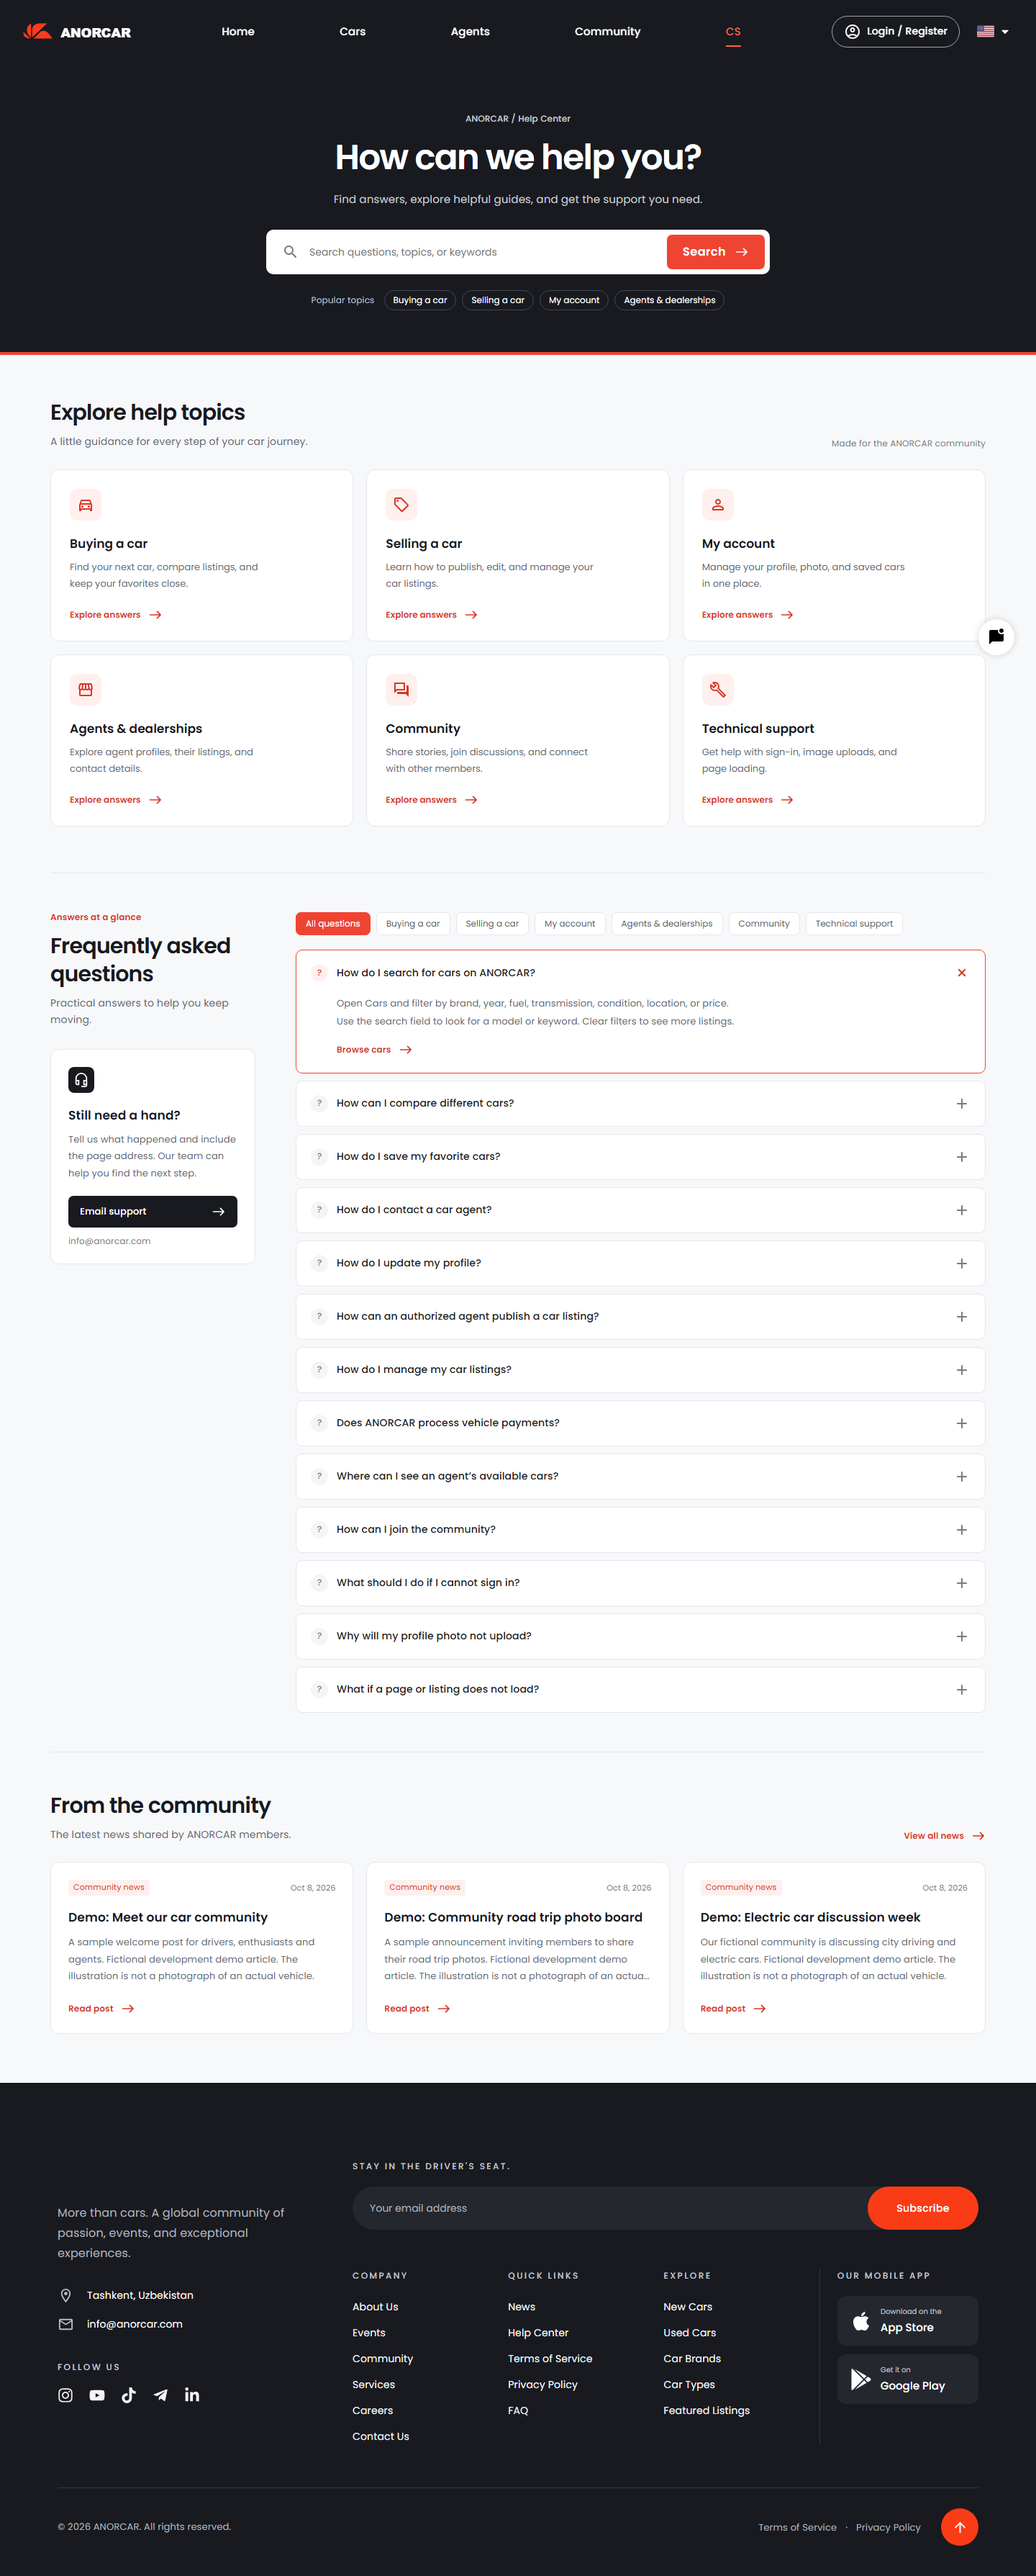
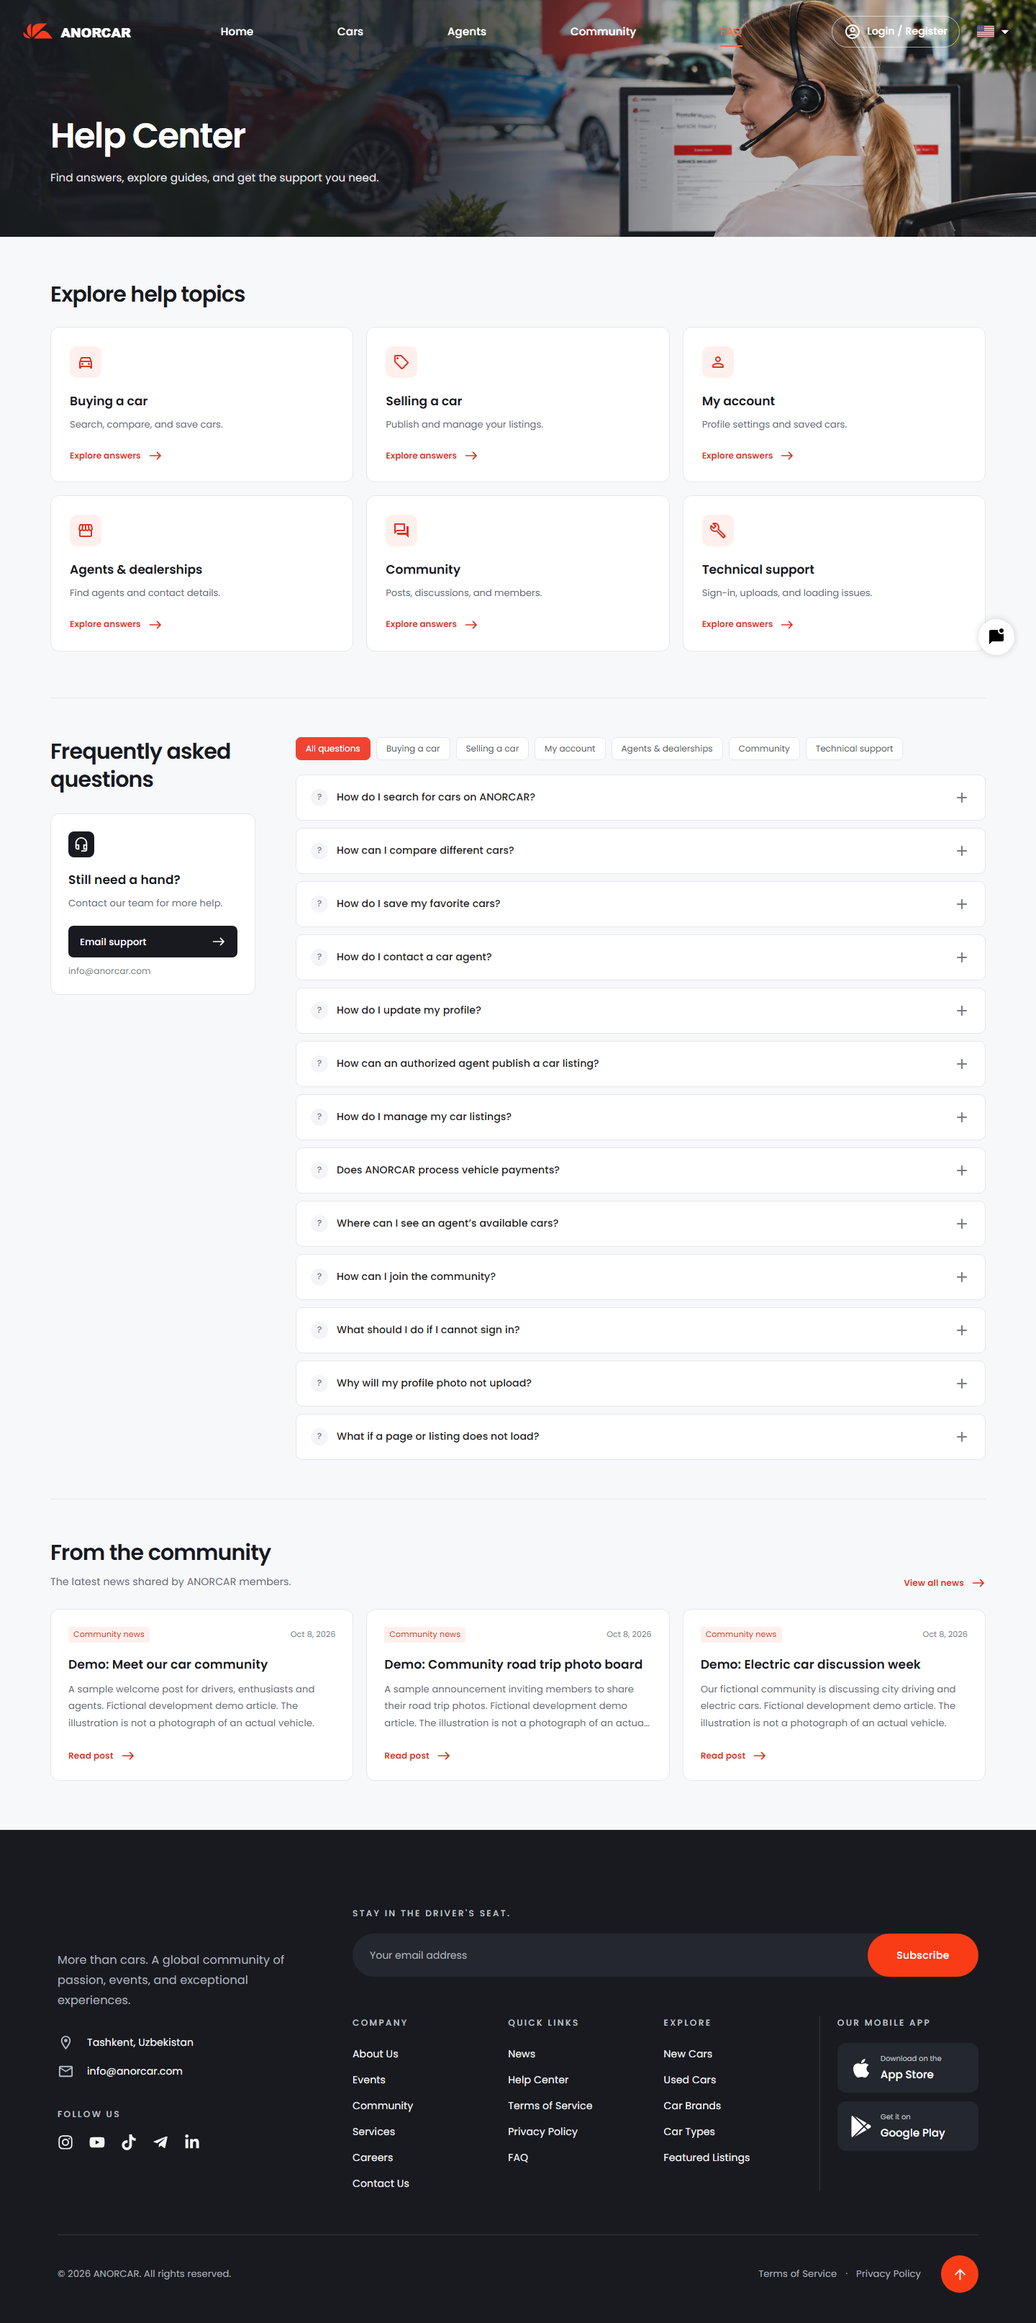
feat: redesign FAQ page navbar and hero section

diff --git a/pages/cs/index.tsx b/pages/cs/index.tsx
@@ -1,11 +1,10 @@
-import React, { FormEvent, useEffect, useRef, useState } from 'react';
+import React, { useEffect, useRef, useState } from 'react';
 import { NextPage } from 'next';
 import Head from 'next/head';
 import { useRouter } from 'next/router';
 import { useTranslation } from 'next-i18next';
 import { serverSideTranslations } from 'next-i18next/serverSideTranslations';
-import { Button, Stack } from '@mui/material';
-import SearchRounded from '@mui/icons-material/SearchRounded';
+import { Stack } from '@mui/material';
 import EastRounded from '@mui/icons-material/EastRounded';
 import DirectionsCarOutlined from '@mui/icons-material/DirectionsCarOutlined';
 import SellOutlined from '@mui/icons-material/SellOutlined';
@@ -32,7 +31,6 @@ const topicIcons = [
 const CS: NextPage = () => {
 	const { t } = useTranslation('common');
 	const router = useRouter();
-	const [draft, setDraft] = useState('');
 	const [search, setSearch] = useState('');
 	const [category, setCategory] = useState<HelpCategory>('all');
 	const restored = useRef(false);
@@ -40,7 +38,6 @@ const CS: NextPage = () => {
 		if (!router.isReady) return;
 		const value = typeof router.query.q === 'string' ? router.query.q.slice(0, 160) : '';
 		const selected = helpTopics.find((topic) => topic.id === router.query.topic)?.id ?? 'all';
-		setDraft(value);
 		setSearch(value);
 		setCategory(selected);
 		if (!restored.current) {
@@ -53,7 +50,6 @@ const CS: NextPage = () => {
 	const chooseHelp = (topic: HelpCategory, value = search) => {
 		setCategory(topic);
 		setSearch(value);
-		setDraft(value);
 		void router.replace(
 			{ pathname: '/cs', query: { tab: 'faq', ...(topic !== 'all' ? { topic } : {}), ...(value ? { q: value } : {}) } },
 			undefined,
@@ -63,53 +59,24 @@ const CS: NextPage = () => {
 			.getElementById('cs-faq')
 			?.scrollIntoView({ behavior: window.matchMedia('(prefers-reduced-motion: reduce)').matches ? 'auto' : 'smooth' });
 	};
-	const searchHandler = (event: FormEvent) => {
-		event.preventDefault();
-		chooseHelp('all', draft.trim());
-	};
 	return (
 		<Stack component="main" className="cs-page" id="cs-help-center">
 			<Head>
 				<title>{`${t('Help Center')} | ANORCAR`}</title>
-				<meta name="description" content={t('Find answers, explore helpful guides, and get the support you need.')} />
+				<meta name="description" content={t('Find answers, explore guides, and get the support you need.')} />
 			</Head>
 			<section className="cs-hero" aria-labelledby="cs-title">
 				<div className="cs-container">
-					<span className="cs-hero-label">ANORCAR / {t('Help Center')}</span>
-					<h1 id="cs-title">{t('How can we help you?')}</h1>
-					<p>{t('Find answers, explore helpful guides, and get the support you need.')}</p>
-					<form className="cs-search" onSubmit={searchHandler} role="search">
-						<SearchRounded aria-hidden="true" />
-						<input
-							value={draft}
-							onChange={(event) => setDraft(event.target.value)}
-							maxLength={160}
-							aria-label={t('Search help topics')}
-							placeholder={t('Search questions, topics, or keywords')}
-						/>
-						<Button type="submit" className="cs-search-button">
-							{t('Search')}
-							<EastRounded fontSize="small" />
-						</Button>
-					</form>
-					<div className="cs-popular">
-						<span>{t('Popular topics')}</span>
-						{helpTopics.slice(0, 4).map((topic) => (
-							<button type="button" key={topic.id} onClick={() => chooseHelp(topic.id, '')}>
-								{t(topic.title)}
-							</button>
-						))}
-					</div>
+					<h1 id="cs-title">{t('Help Center')}</h1>
+					<p>{t('Find answers, explore guides, and get the support you need.')}</p>
 				</div>
 			</section>
 			<div className="cs-container cs-body">
-				<section className="cs-topics" aria-labelledby="cs-topics-heading">
+				<section className="cs-topics" id="cs-topics" aria-labelledby="cs-topics-heading">
 					<div className="cs-section-heading">
 						<div>
 							<h2 id="cs-topics-heading">{t('Explore help topics')}</h2>
-							<p>{t('A little guidance for every step of your car journey.')}</p>
 						</div>
-						<span className="cs-section-note">{t('Made for the ANORCAR community')}</span>
 					</div>
 					<div className="cs-topic-grid">
 						{helpTopics.map((topic, index) => {

diff --git a/scss/pc/cs/cs.scss b/scss/pc/cs/cs.scss
@@ -44,15 +44,24 @@
 	}
 	.cs-hero {
 		position: relative;
-		padding: 156px 0 58px;
+		padding: 160px 0 70px;
 		background: #181a20;
+		background-image: linear-gradient(
+				90deg,
+				rgba(24, 26, 32, 0.94) 0%,
+				rgba(24, 26, 32, 0.82) 42%,
+				rgba(24, 26, 32, 0.26) 70%,
+				rgba(24, 26, 32, 0.16) 100%
+			),
+			url('/img/car/helphero1.png');
+		background-size: cover;
+		background-position: center 36%;
 		color: #fff;
-		text-align: center;
-		border-bottom: 4px solid #f04432;
+		text-align: left;
 	}
 	.cs-hero-label {
 		display: inline-block;
-		color: #c7c9ce;
+		color: #e0e2e6;
 		font-size: 12px;
 		font-weight: 500;
 		margin-bottom: 18px;
@@ -65,68 +74,12 @@
 	}
 	.cs-hero p {
 		margin-top: 16px;
-		color: #c7c9ce;
+		color: #e0e2e6;
 		font-size: 15px;
 		line-height: 1.7;
 	}
-	.cs-search {
-		display: flex;
-		align-items: center;
-		gap: 14px;
-		width: min(700px, 100%);
-		margin: 30px auto 22px;
-		padding: 7px 7px 7px 22px;
-		background: #fff;
-		border-radius: 10px;
-		color: #777c86;
-		text-align: left;
-	}
-	.cs-search input {
-		flex: 1;
-		min-width: 0;
-		border: 0;
-		padding: 12px 0;
-		color: #181a20;
-		background: transparent;
-		font-size: 14px;
-	}
-	.cs-search .cs-search-button {
-		display: flex;
-		gap: 12px;
-		padding: 14px 22px;
-		background: #f04432;
-		color: #fff;
-		border-radius: 7px;
-		text-transform: none;
-		font-weight: 600;
-		flex-shrink: 0;
-	}
-	.cs-search .cs-search-button:hover {
-		background: #d63222;
-	}
-	.cs-popular {
-		display: flex;
-		justify-content: center;
-		align-items: center;
-		flex-wrap: wrap;
-		gap: 8px;
-		font-size: 12px;
-		color: #bbbfc7;
-	}
-	.cs-popular > span {
-		margin-right: 5px;
-	}
-	.cs-popular button {
-		padding: 7px 12px;
-		border: 1px solid #44474e;
-		border-radius: 20px;
-		background: transparent;
-		color: #fff;
-		font-size: 12px;
-	}
-	.cs-popular button:hover {
-		border-color: #ff7668;
-		color: #ff998f;
+	.cs-topics {
+		scroll-margin-top: 160px;
 	}
 	.cs-body {
 		padding-top: 60px;
@@ -477,7 +430,13 @@
 			width: calc(100% - 36px);
 		}
 		.cs-hero {
-			padding: 185px 0 40px;
+			padding: 180px 0 48px;
+			background-position: 65% center;
+			background-image: linear-gradient(90deg, rgba(24, 26, 32, 0.82) 0%, rgba(24, 26, 32, 0.7) 55%, rgba(24, 26, 32, 0.42) 100%), url('/img/car/helphero1.png');
+			text-align: center;
+		}
+		.cs-popular {
+			justify-content: center;
 		}
 		.cs-hero h1 {
 			letter-spacing: -0.8px;

diff --git a/libs/components/cs/Faq.tsx b/libs/components/cs/Faq.tsx
@@ -15,7 +15,7 @@ interface FaqProps {
 }
 const Faq = ({ category, search, onCategoryChange, onReset }: FaqProps) => {
 	const { t, i18n } = useTranslation('common');
-	const [expanded, setExpanded] = useState<string | false>('search');
+	const [expanded, setExpanded] = useState<string | false>(false);
 	const query = search.trim().toLocaleLowerCase(i18n.language);
 	const questions = helpQuestions.filter(
 		(item) =>
@@ -28,18 +28,16 @@ const Faq = ({ category, search, onCategoryChange, onReset }: FaqProps) => {
 	);
 	const firstQuestion = questions[0]?.id ?? false;
 	useEffect(() => {
-		setExpanded(firstQuestion);
+		setExpanded(query ? firstQuestion : false);
 	}, [firstQuestion, category, query]);
 	return (
 		<section className="cs-faq" id="cs-faq" aria-labelledby="cs-faq-heading">
 			<aside className="cs-faq-aside">
-				<span className="cs-kicker">{t('Answers at a glance')}</span>
 				<h2 id="cs-faq-heading">{t('Frequently asked questions')}</h2>
-				<p>{t('Practical answers to help you keep moving.')}</p>
 				<div className="cs-contact-card">
 					<HeadsetMicOutlined />
 					<h3>{t('Still need a hand?')}</h3>
-					<p>{t('Tell us what happened and include the page address. Our team can help you find the next step.')}</p>
+					<p>{t('Contact our team for more help.')}</p>
 					<a href="mailto:info@anorcar.com" className="cs-contact-button">
 						{t('Email support')}
 						<EastRounded fontSize="small" />

diff --git a/libs/components/cs/helpContent.ts b/libs/components/cs/helpContent.ts
@@ -3,24 +3,24 @@ export const helpTopics: { id: Exclude<HelpCategory, 'all'>; title: string; desc
 	{
 		id: 'cars',
 		title: 'Buying a car',
-		description: 'Find your next car, compare listings, and keep your favorites close.',
+		description: 'Search, compare, and save cars.',
 	},
-	{ id: 'selling', title: 'Selling a car', description: 'Learn how to publish, edit, and manage your car listings.' },
-	{ id: 'account', title: 'My account', description: 'Manage your profile, photo, and saved cars in one place.' },
+	{ id: 'selling', title: 'Selling a car', description: 'Publish and manage your listings.' },
+	{ id: 'account', title: 'My account', description: 'Profile settings and saved cars.' },
 	{
 		id: 'agents',
 		title: 'Agents & dealerships',
-		description: 'Explore agent profiles, their listings, and contact details.',
+		description: 'Find agents and contact details.',
 	},
 	{
 		id: 'community',
 		title: 'Community',
-		description: 'Share stories, join discussions, and connect with other members.',
+		description: 'Posts, discussions, and members.',
 	},
 	{
 		id: 'technical',
 		title: 'Technical support',
-		description: 'Get help with sign-in, image uploads, and page loading.',
+		description: 'Sign-in, uploads, and loading issues.',
 	},
 ];
 export interface HelpQuestion {

diff --git a/libs/components/Top.tsx b/libs/components/Top.tsx
@@ -154,7 +154,7 @@ const Top = () => {
 					<div> {t('Community')} </div>
 				</Link>
 				<Link href={'/cs'}>
-					<div> {t('CS')} </div>
+					<div> {t('FAQ')} </div>
 				</Link>
 			</Stack>
 		);
@@ -199,7 +199,7 @@ const Top = () => {
 								</Link>
 							)}
 							<Link href={'/cs'} className={router.pathname === '/cs' ? 'active' : undefined} aria-current={router.pathname === '/cs' ? 'page' : undefined}>
-								<div> {t('CS')} </div>
+								<div> {t('FAQ')} </div>
 							</Link>
 						</Box>
 						<Box component={'div'} className={'user-box'}>

diff --git a/docs/CS_UI.md b/docs/CS_UI.md
@@ -4,9 +4,9 @@ Implemented 2026-10-12 in the existing NESTAR-derived Next.js Pages Router, layo
 
 ## Design and behavior
 
-- Dedicated dark Help Center hero with the shared marketplace navbar; existing ANORCAR Poppins, #181A20, white/light gray and #F04432 palette. CS active navigation and localized page metadata.
+- Compact photo Help Center hero with the shared marketplace navbar, section title and short description; existing ANORCAR Poppins, #181A20, white/light gray and #F04432 palette. CS active navigation and localized page metadata.
 - Six help topics filter the existing FAQ component. Thirteen practical answers cover car search/comparison, favorites, profiles, agent contact/listings, selling, community, payment arrangements, sign-in, uploads and loading.
-- Search matches translated question, answer and topic text. Explicit submit, clear/no-result states, accessible accordion controls and real destination links. Search/category restore from URL using shallow routing; legacy ?tab=faq and ?tab=notice links still work.
+- Topic cards and FAQ category controls provide navigation. FAQ answers start collapsed to keep the page concise. Existing q-based links still match translated question/answer/topic text and retain clear/no-result states. Category/query restoration uses shallow routing; legacy ?tab=faq and ?tab=notice links still work.
 - Email support reuses info@anorcar.com from the existing footer. No message is sent automatically and no ticket backend or response-time promise is invented.
 - Existing Notice component now shows the latest three actual NEWS articles through existing GET_BOARD_ARTICLES/Apollo. Real IDs, titles, dates and safe text excerpts; loading, empty, error and Retry states. These are community posts, not official platform announcements. No fabricated releases/dates.
 - EN/KR/RU dictionaries, responsive topic grids and horizontal mobile FAQ filters. Replaced CS/FAQ/Notice mobile placeholders.
@@ -24,3 +24,27 @@ Implemented 2026-10-12 in the existing NESTAR-derived Next.js Pages Router, layo
 ## Scope
 
 No backend code/schema/data changes, dependency/lockfile changes, commit or deployment. Backend handoff docs are in sibling anorcar/docs; docs/ai is absent. The FAQ is maintained frontend guidance, while community news comes from the backend. The previous unrelated page-navigation latency report was outside this CS implementation.
+
+## Hero photo refinement — 2026-10-12
+
+- Applied the user-provided public/img/car/helphero.png as the hero background. Desktop copy/search align left, leaving the support agent visible on the right. Responsive cropping and a dark overlay maintain readable navigation and text; mobile copy remains centered.
+- Follow-up: replaced the photo with the user-provided public/img/car/helphero1.png for both desktop and mobile, retaining the existing copy and overlay.
+- Kept “How can we help you?” and shortened the subtitle/metadata to “Quick answers for your car journey.” Added matching KR/RU translations.
+- Yarn typecheck and the existing full read-only CS browser suite passed at five widths, including localized mobile, search, filters and Retry. Refreshed desktop/mobile screenshots visually reviewed. No new dependencies or backend changes.
+
+## Content simplification — 2026-10-12
+
+- Removed the large hero search and repeated popular-topic chips in favor of one Explore help topics anchor. Removed the hero eyebrow, duplicate section descriptions/note and FAQ kicker; shortened all six topic descriptions and support copy in EN/KR/RU.
+- FAQ answers now start collapsed unless restored from a legacy search URL. Existing category filtering, legacy query URLs, reset states, links, Apollo news and support email remain functional.
+- Updated the read-only browser suite for topic navigation instead of search input. Five widths, three locales, categories, accordions, legacy search/reset and news/error/Retry passed without runtime exceptions. Refreshed screenshots visually reviewed.
+- Final Yarn typecheck and production build passed (91 pages, existing lint warnings). Recorded the refinement in sibling anorcar/docs/COMPLETED_TASKS.md.
+
+## Plain section hero — 2026-10-12
+
+- Matched the requested simple section-banner treatment: helphero1 image, localized Help Center title and one short description. Removed the hero action and red bottom border; topic and FAQ navigation remain below the hero.
+- Yarn typecheck and the read-only CS browser suite passed. Updated desktop/mobile previews; browser assertions verify no hero controls and no bottom border.
+
+## Hero readability refinement — 2026-10-12
+
+- Updated subtitle and metadata to “Find answers, explore guides, and get the support you need.” with KR/RU translations. Preserved the strong left gradient; reduced right-side opacity to 0.26 at 70% and 0.16 at the edge so the support agent remains brighter. Mobile keeps sufficient text contrast with a directional gradient.
+- Repaired encoding corruption in the recently added short KR/RU topic/support strings. Yarn typecheck and the existing CS browser suite passed; refreshed desktop/mobile previews.
